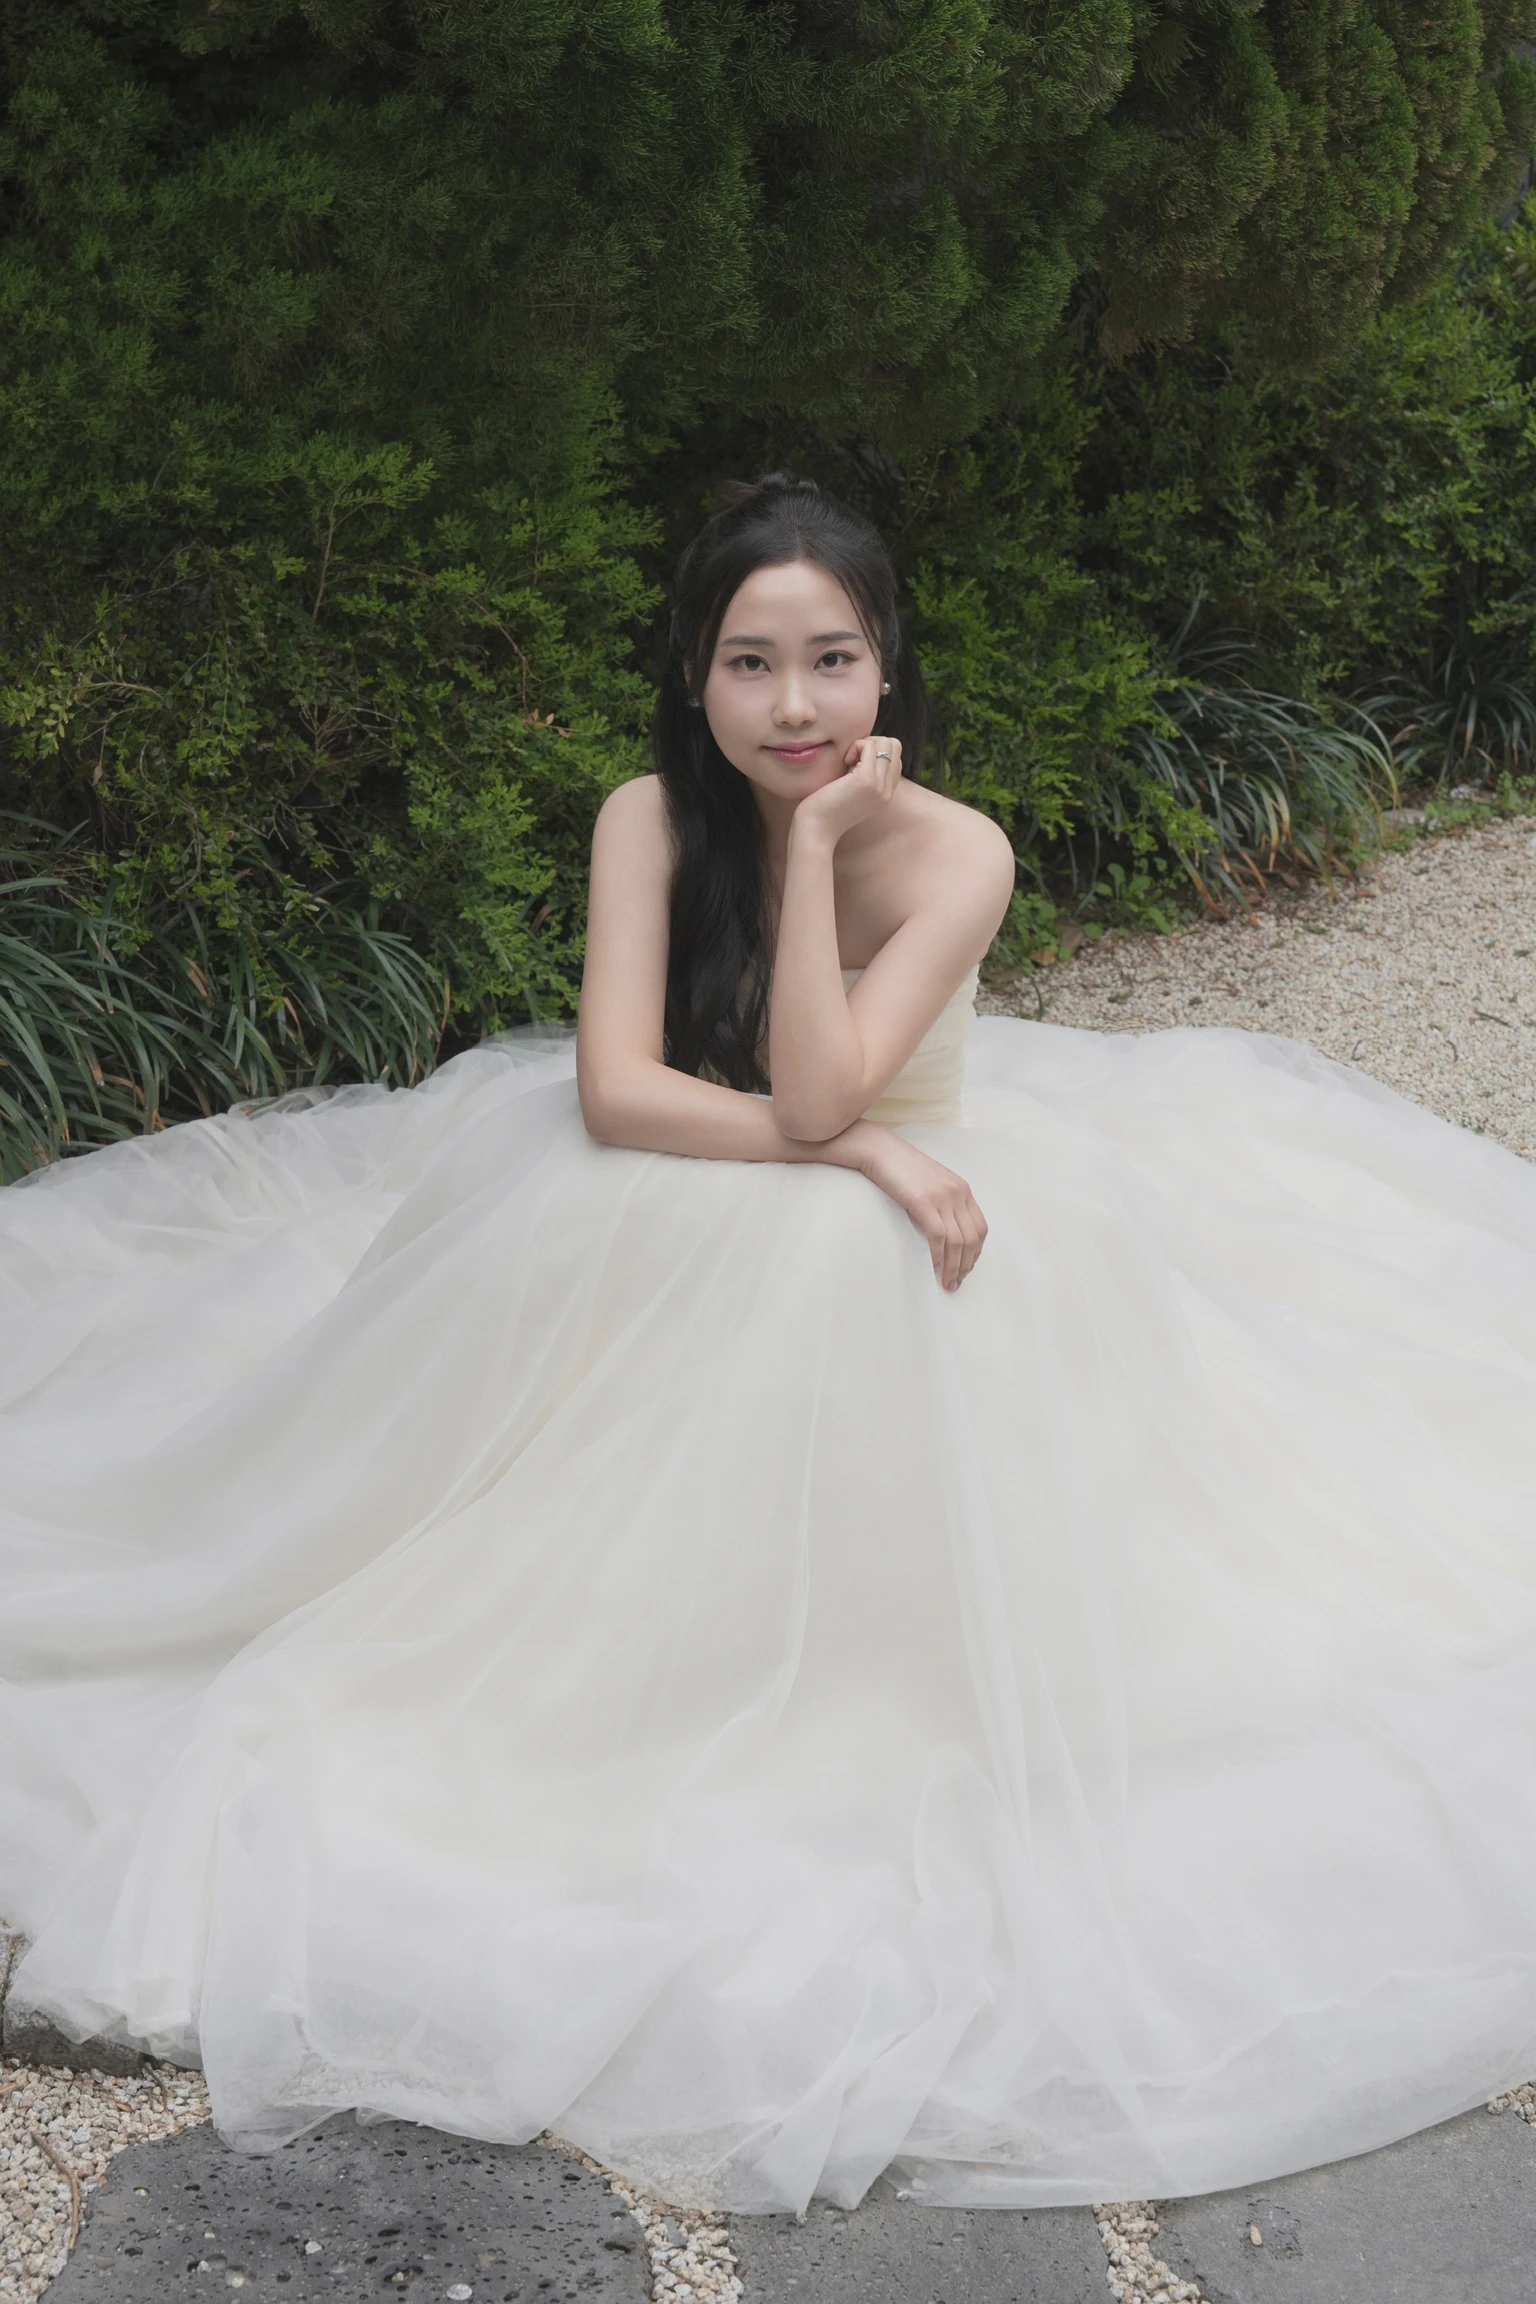
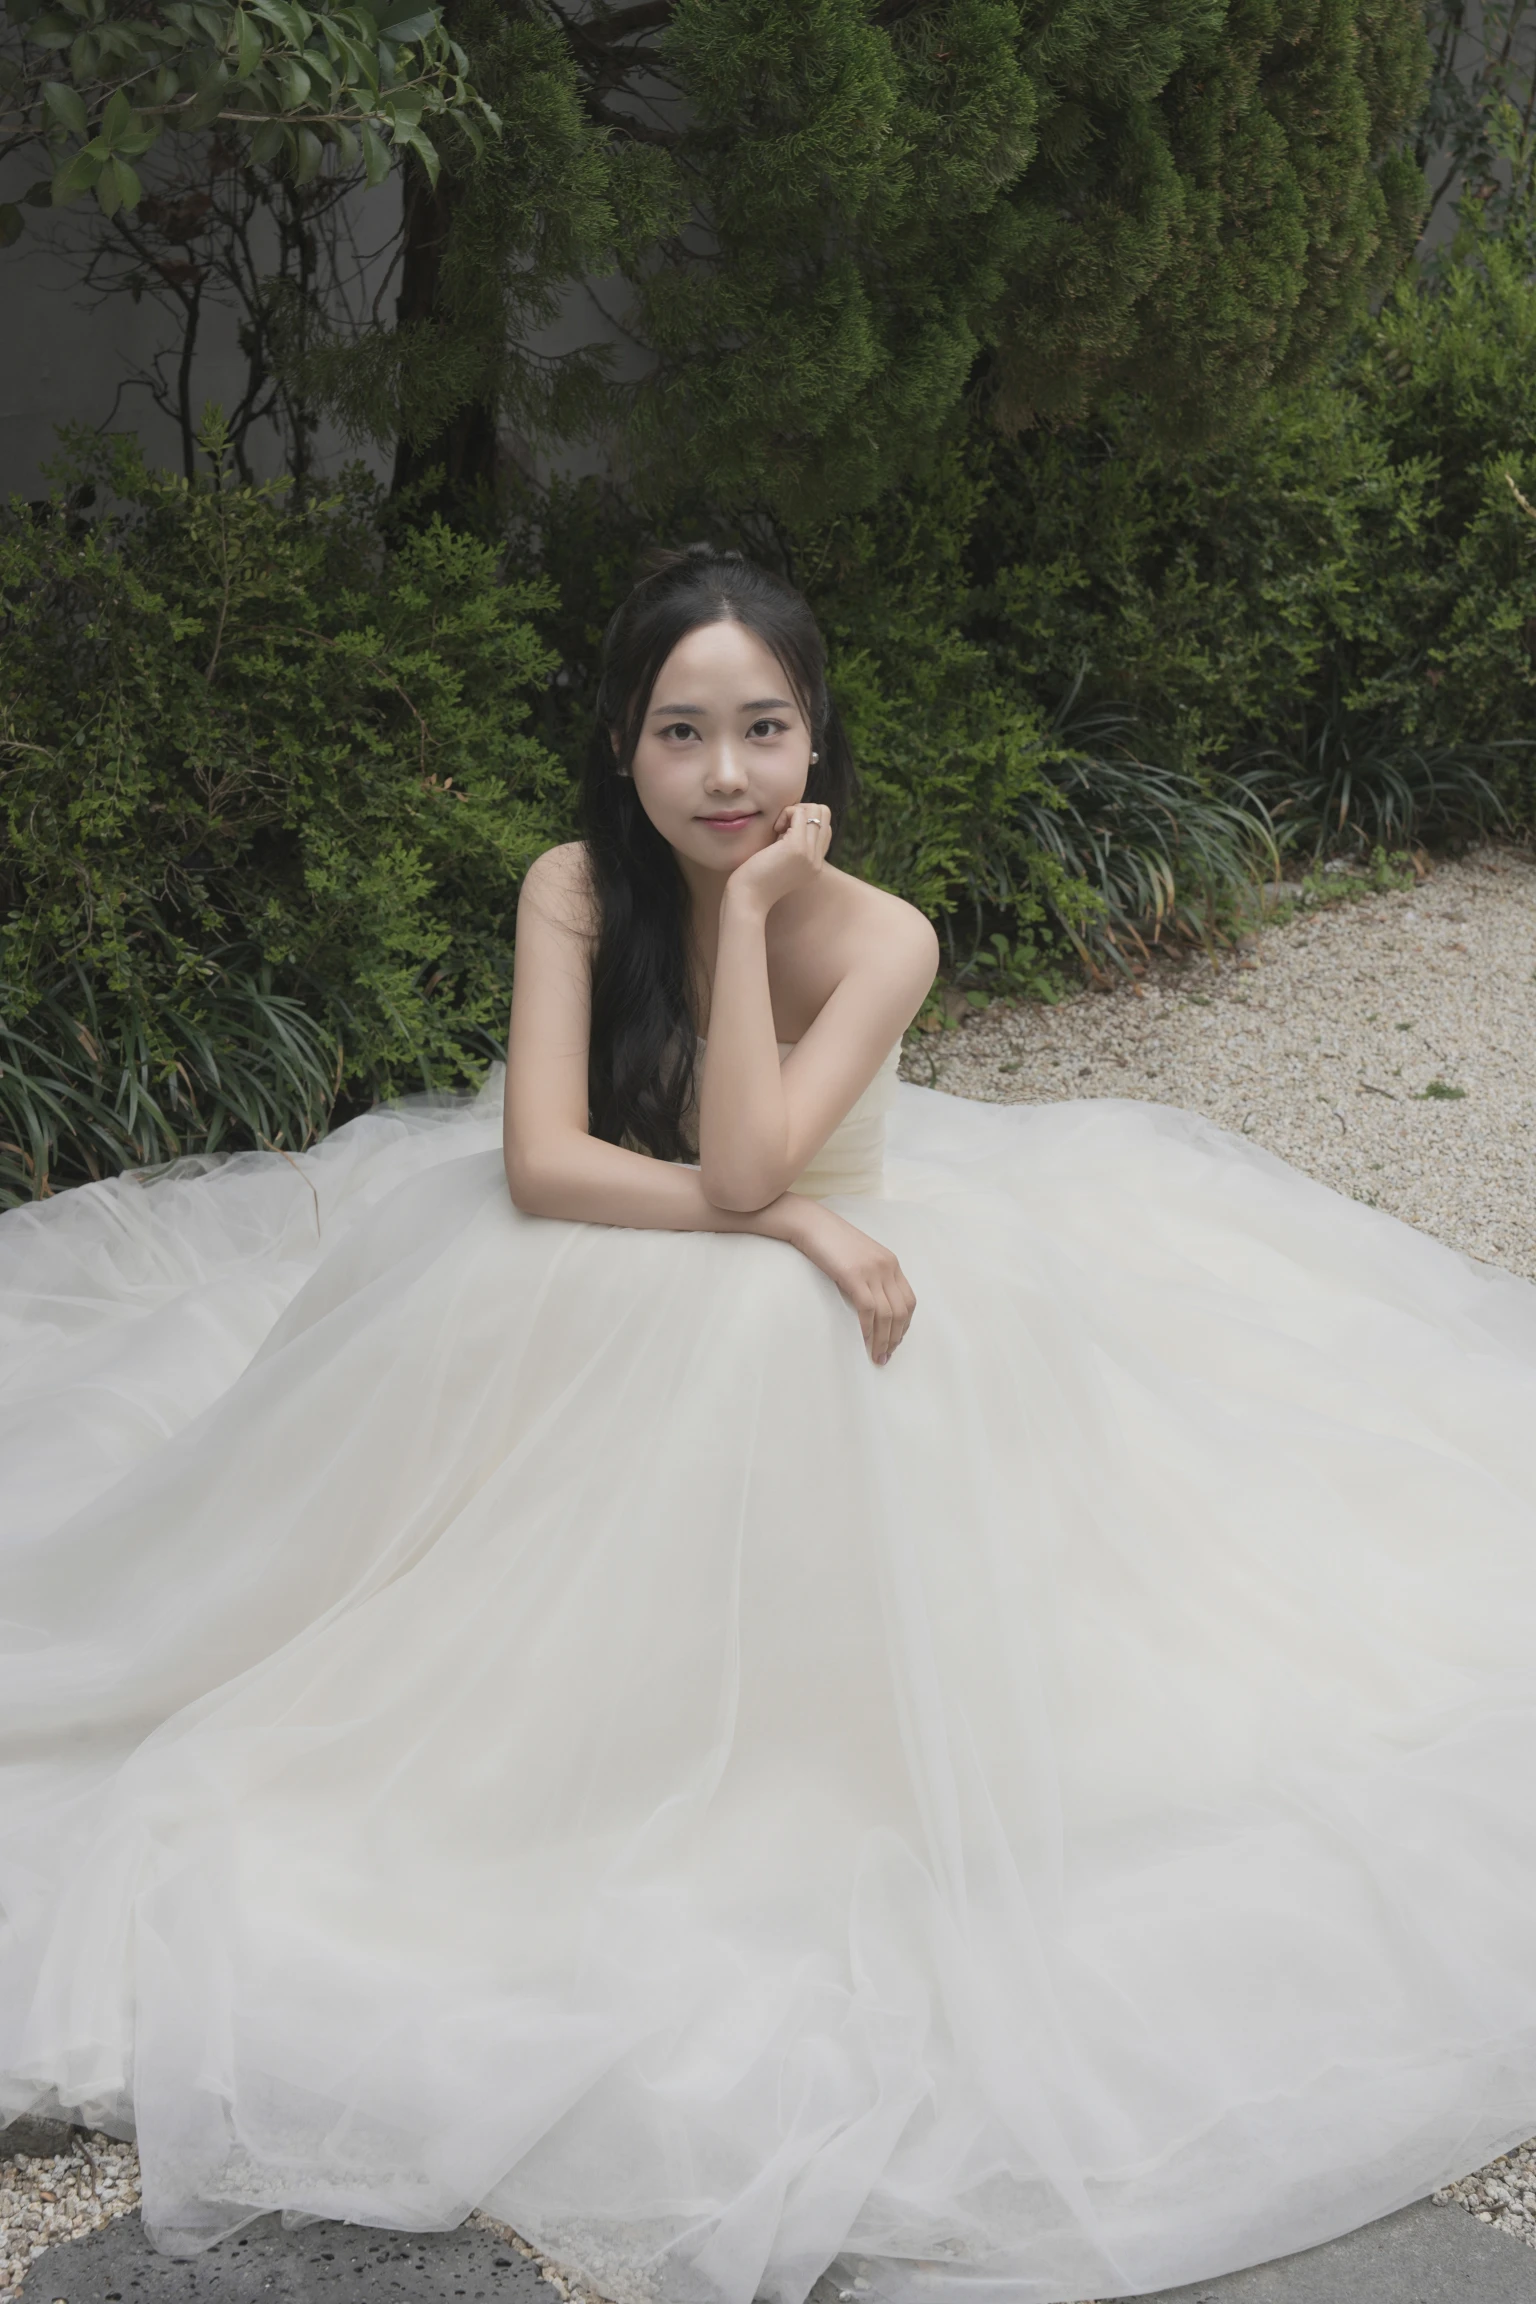
갤러리 사진 2장 교체, 2장 추가
10번·12번을 새 사진으로 바꾸고, 신랑·신부 단독컷을 13·14번으로 붙여
갤러리가 14장(7줄)이 됐습니다. 모두 기존과 같은 1536×2304 · 품질 90 입니다.

Changed region(s): [[0.0, 0.0, 1.0, 0.5938], [0.0, 0.8125, 1.0, 1.0], [0.0, 0.7188, 0.125, 0.7812]]

diff --git a/wedding-invitation/index.html b/wedding-invitation/index.html
@@ -67,7 +67,7 @@
 
 <link rel="stylesheet" href="style.css?v=efbca561">
 </head>
-<!-- 갤러리는 2열 폴라로이드 한 판(세로 12장, 더보기 없음).
+<!-- 갤러리는 2열 폴라로이드 한 판(세로 14장, 더보기 없음).
      사진은 모두 assets/photos/originals 에서 나왔고 순서도 같습니다.
      가로 사진은 격자가 어긋나 콜라주로 보냈습니다. -->
 <body data-tint-body data-cover-tint="#0d0c0b">   <!-- 표지에선 검정, 본문에선 흰색 (script.js) -->
@@ -394,6 +394,6 @@
 
 <div class="toast" id="toast" role="status" aria-live="polite"></div>
 
-<script src="script.js?v=875fa343" defer></script>
+<script src="script.js?v=ca0b715b" defer></script>
 </body>
 </html>

diff --git a/wedding-invitation/script.js b/wedding-invitation/script.js
@@ -39,7 +39,7 @@ const CONFIG = {
   // 비워 두면 카카오톡 버튼이 시스템 공유(또는 주소 복사)로 대신 동작합니다.
   kakaoKey: "02485fdd8eff4ae4475876a8d91a1e7f",
 
-  gallery: 12,          // assets/photos/gallery-01.webp … 순서로 읽습니다
+  gallery: 14,          // assets/photos/gallery-01.webp … 순서로 읽습니다
 
   // 사진 원본 크기. img 의 width·height 속성으로 넣어 자리를 미리 잡습니다.
   // 사진을 바꾸면 이 값도 함께 고쳐야 지연 로딩 중 배치가 흔들리지 않습니다.
